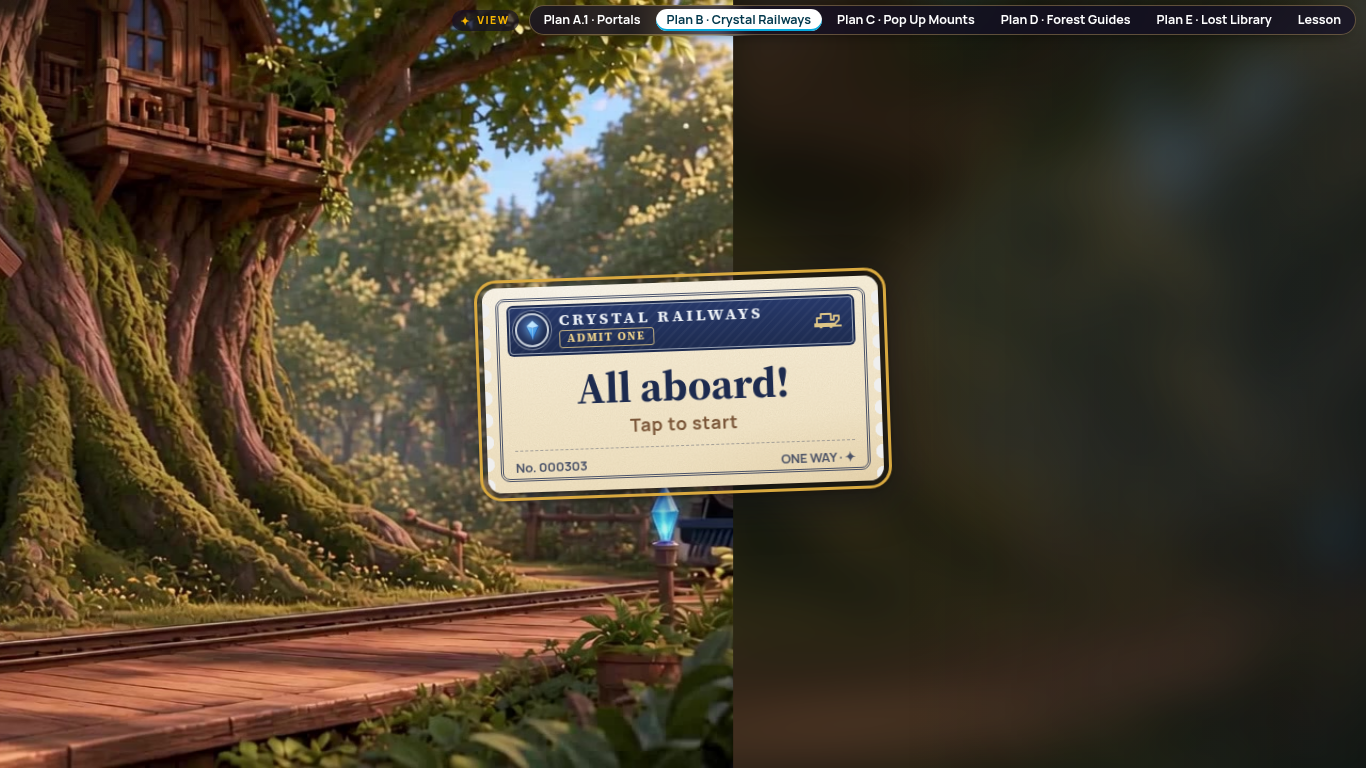
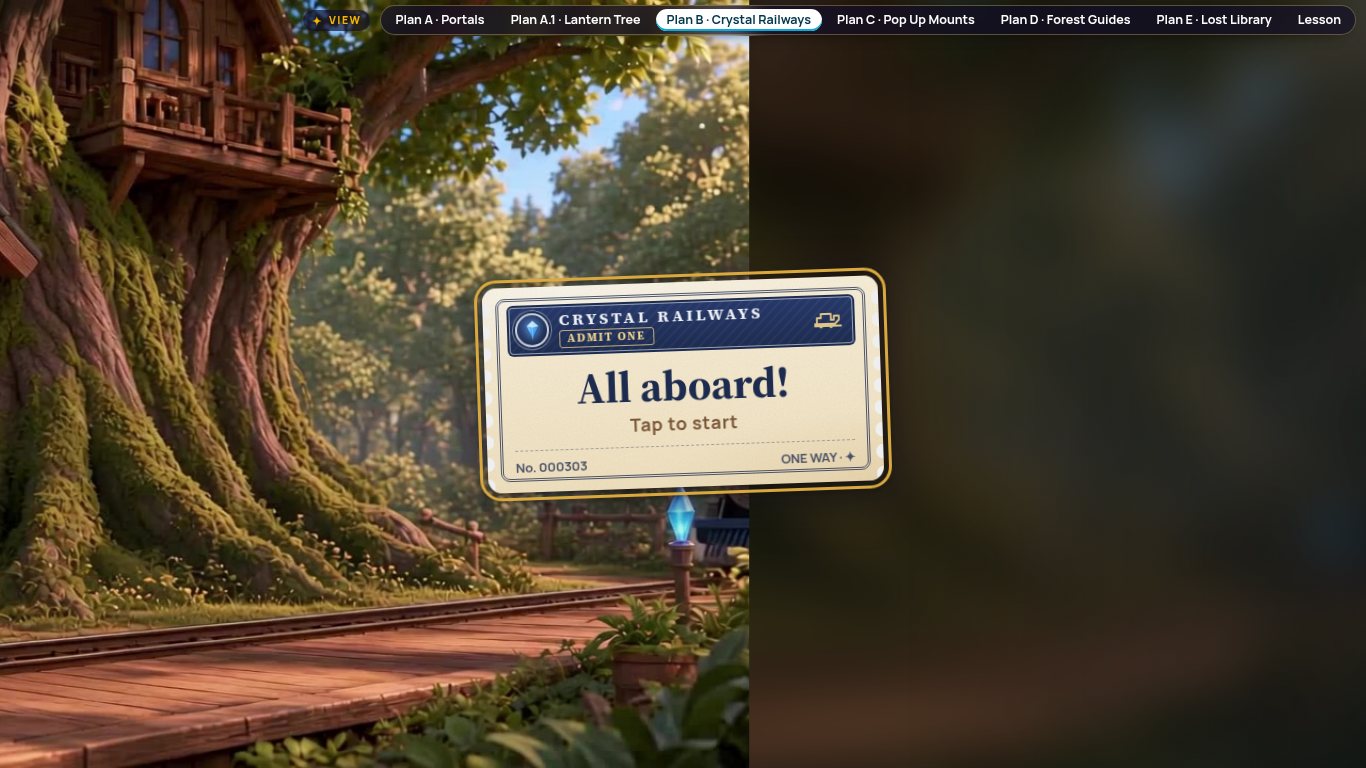
Restore original Plan A (switcher + site root); Plan A.1 Lantern Tree as separate button; goal tile at bottom; lantern menu as single bottom row

Changed region(s): [[0.0, 0.0, 0.5534, 1.0]]

diff --git a/public/dashboard-a1/common.css b/public/dashboard-a1/common.css
@@ -10,16 +10,20 @@
   transition:box-shadow .25s, background .25s; }
 .lantern:hover, .lantern:focus-visible { background:radial-gradient(closest-side, color-mix(in srgb,var(--c) 45%,transparent), transparent); box-shadow:0 0 34px 8px color-mix(in srgb,var(--c) 55%,transparent); outline:none; }
 .lantern.on { background:radial-gradient(closest-side, color-mix(in srgb,var(--c) 55%,transparent), transparent); box-shadow:0 0 0 3px var(--c), 0 0 44px 12px color-mix(in srgb,var(--c) 70%,transparent); }
-.bar { position:absolute; right:14px; bottom:12px; width:452px; padding:8px; display:none; flex-direction:column; gap:7px; border-radius:16px; box-sizing:border-box;
-  background:rgba(20,83,140,.5); -webkit-backdrop-filter:blur(10px); backdrop-filter:blur(10px); border:1px solid rgba(255,255,255,.22); }
+.bar { position:absolute; left:12px; right:12px; bottom:12px; padding:6px; display:none; align-items:center; gap:6px; border-radius:14px; box-sizing:border-box;
+  background:rgba(20,83,140,.45); -webkit-backdrop-filter:blur(10px); backdrop-filter:blur(10px); border:1px solid rgba(255,255,255,.22); }
+.goaltile { position:absolute; left:50%; bottom:14px; transform:translateX(-50%); height:34px; display:flex; align-items:center; padding:0 16px; border-radius:12px;
+  background:rgba(20,83,140,.38); -webkit-backdrop-filter:blur(6px); backdrop-filter:blur(6px); border:1px solid rgba(255,255,255,.22); font-size:14px; font-weight:600; white-space:nowrap; }
+.goaltile b { color:#f5b400; font-weight:800; letter-spacing:.08em; font-size:11px; margin-right:8px; text-transform:uppercase; }
+.sel .goaltile { display:none; }
 .bar.show { display:flex; }
-.tile { flex:0 0 calc(50% - 3px); box-sizing:border-box; height:26px; display:flex; align-items:center; gap:8px; padding:0 10px; border-radius:11px; border:2px solid var(--c); background:rgba(255,255,255,.12);
-  color:#fff; font:600 13px "Source Serif 4",serif; cursor:pointer; white-space:nowrap; overflow:hidden; }
+.tile { flex:1 1 0; min-width:0; box-sizing:border-box; height:30px; padding:0 8px !important; display:flex; align-items:center; gap:8px; padding:0 10px; border-radius:11px; border:2px solid var(--c); background:rgba(255,255,255,.12);
+  color:#fff; font:600 12px "Source Serif 4",serif; cursor:pointer; white-space:nowrap; overflow:hidden; }
 .tile em { font:800 11px Manrope,sans-serif; font-style:normal; }
 .tile.on { background:var(--c); color:#0b1d33; }
-.go { width:100%; height:32px; border:0; border-radius:999px; background:#f5b400; color:#14538c; font:800 17px Manrope,sans-serif; cursor:pointer; flex:none; }
+.go { width:104px; flex:none; height:30px; border:0; border-radius:999px; background:#f5b400; color:#14538c; font:800 17px Manrope,sans-serif; cursor:pointer; flex:none; }
 .go:hover { filter:brightness(1.08); }
-.soon { width:100%; height:32px; text-align:center; font:700 13px Manrope; color:#fff; line-height:1.2; }
+.soon { width:200px; flex:none; display:flex; align-items:center; justify-content:center; height:30px; text-align:center; font:700 13px Manrope; color:#fff; line-height:1.2; }
 .soon b { margin-right:6px; color:#f5b400; font-size:15px; }
 .back { position:absolute; left:16px; top:14px; height:38px; padding:0 16px; border-radius:999px; background:rgba(20,83,140,.75); color:#fff; text-decoration:none;
   display:flex; align-items:center; font:800 15px Manrope; border:1px solid rgba(255,255,255,.3); -webkit-backdrop-filter:blur(8px); backdrop-filter:blur(8px); }

diff --git a/public/dashboard-a1/index.html b/public/dashboard-a1/index.html
@@ -1,12 +1,13 @@
 <!doctype html><html lang="en"><head><meta charset="utf-8"/><meta name="viewport" content="width=device-width, initial-scale=1"/><link rel="icon" type="image/svg+xml" href="../favicon.svg"/>
 <link href="https://fonts.googleapis.com/css2?family=Manrope:wght@400;600;700;800&family=Source+Serif+4:opsz,wght@8..60,600;8..60,700&display=swap" rel="stylesheet"/>
-<link rel="stylesheet" href="../demo/switcher.css"/><link rel="stylesheet" href="stage-fit.css"/><link rel="stylesheet" href="common.css"/><title>Plan A.1 · Portals · Astra's Writing Adventure</title></head>
-<body><script src="../demo/switcher.js" data-page="dashboard-a"></script>
+<link rel="stylesheet" href="../demo/switcher.css"/><link rel="stylesheet" href="stage-fit.css"/><link rel="stylesheet" href="common.css"/><title>Plan A.1 · Lantern Tree · Astra's Writing Adventure</title></head>
+<body><script src="../demo/switcher.js" data-page="dashboard-a1"></script>
 <div id="frame" class="stage-frame">
 <img class="bg" src="tree.jpg" alt="Astra's lantern tree"/>
-<div class="strip"><h1>Astra's Writing Adventure</h1><div class="goal"><b>Today's goal</b>Back up every answer with evidence from the text.</div></div>
+<div class="strip"><h1>Astra's Writing Adventure</h1></div>
 <div id="lanterns"></div>
-<div class="bar" id="bar"><div id="tiles" style="display:flex;flex-wrap:wrap;gap:6px"></div><div id="act"></div></div>
+<div class="goaltile"><b>Today's goal</b>Back up every answer with evidence from the text.</div>
+<div class="bar" id="bar"><div id="tiles" style="display:flex;gap:6px;flex:1;min-width:0"></div><div id="act"></div></div>
 </div>
 <script src="stage-fit.js"></script><script src="worlds.js"></script>
 <script>
@@ -18,7 +19,7 @@
     var t=document.createElement("button"); t.className="tile"; t.style.setProperty("--c",w.color); t.innerHTML="<em>M"+w.m+"</em>"+w.name.replace(/'/g,"&#39;");
     t.onclick=function(){pick(i)}; tiles.appendChild(t);
   });
-  function pick(i){ sel=i; bar.classList.add("show");
+  function pick(i){ sel=i; bar.classList.add("show"); document.getElementById("frame").classList.add("sel");
     [].forEach.call(L.children,function(e,j){e.classList.toggle("on",j===i)}); [].forEach.call(tiles.children,function(e,j){e.classList.toggle("on",j===i)});
     var w=W[i]; act.innerHTML = w.art ? '<button class="go">Go ›</button>' : '<div class="soon"><b>Coming soon!</b>Astra is still exploring</div>';
     if(w.art) act.firstChild.onclick=function(){ location.href="world.html?w="+w.id; };

diff --git a/index.html b/index.html
@@ -4,11 +4,11 @@
     <meta charset="UTF-8" />
     <meta name="viewport" content="width=device-width, initial-scale=1.0" />
     <title>Astra’s Writing Adventure</title>
-    <!-- Site root opens Plan A of the Astra student dashboard (plans A–D live at ./dashboard-a1/ … ./dashboard-d/). The older "Welcome back, Alex" home lives at ./demo/ -->
-    <meta http-equiv="refresh" content="0; url=./dashboard-a1/" />
-    <script>location.replace("./dashboard-a1/" + location.search + location.hash);</script>
+    <!-- Site root opens Plan A of the Astra student dashboard (plans A–D live at ./dashboard-a/ … ./dashboard-d/). The older "Welcome back, Alex" home lives at ./demo/ -->
+    <meta http-equiv="refresh" content="0; url=./dashboard-a/" />
+    <script>location.replace("./dashboard-a/" + location.search + location.hash);</script>
   </head>
   <body>
-    <p><a href="./dashboard-a1/">Open Astra’s Writing Adventure</a></p>
+    <p><a href="./dashboard-a/">Open Astra’s Writing Adventure</a></p>
   </body>
 </html>

diff --git a/public/dashboard-a1/world.html b/public/dashboard-a1/world.html
@@ -1,7 +1,7 @@
 <!doctype html><html lang="en"><head><meta charset="utf-8"/><meta name="viewport" content="width=device-width, initial-scale=1"/><link rel="icon" type="image/svg+xml" href="../favicon.svg"/>
 <link href="https://fonts.googleapis.com/css2?family=Manrope:wght@400;600;700;800&family=Source+Serif+4:opsz,wght@8..60,600;8..60,700&display=swap" rel="stylesheet"/>
 <link rel="stylesheet" href="../demo/switcher.css"/><link rel="stylesheet" href="stage-fit.css"/><link rel="stylesheet" href="common.css"/><title>Plan A.1 · World · Astra's Writing Adventure</title></head>
-<body><script src="../demo/switcher.js" data-page="dashboard-a"></script>
+<body><script src="../demo/switcher.js" data-page="dashboard-a1"></script>
 <div id="frame" class="stage-frame"></div>
 <script src="stage-fit.js"></script><script src="worlds.js"></script>
 <script>

diff --git a/public/demo/switcher.js b/public/demo/switcher.js
@@ -7,7 +7,8 @@
   var page = (me && me.dataset.page) || "dashboard-a";
   var base = new URL("./", (me && me.src) || location.href); // .../demo/
   var links = [
-    { id: "dashboard-a", label: "Plan A.1 · Portals", href: new URL("../dashboard-a1/", base).href },
+    { id: "dashboard-a", label: "Plan A · Portals", href: new URL("../dashboard-a/", base).href },
+    { id: "dashboard-a1", label: "Plan A.1 · Lantern Tree", href: new URL("../dashboard-a1/", base).href },
     { id: "dashboard-b", label: "Plan B · Crystal Railways", href: new URL("../dashboard-b/", base).href },
     { id: "dashboard-c", label: "Plan C · Pop Up Mounts", href: new URL("../dashboard-c/", base).href },
     { id: "dashboard-d", label: "Plan D · Forest Guides", href: new URL("../dashboard-d/", base).href },

diff --git a/public/dashboard-a1/worlds.js b/public/dashboard-a1/worlds.js
@@ -7,5 +7,5 @@ window.A1_WORLDS = [
     crystals: [[240, 547], [507, 394], [309, 287], [860, 327]] },
   { id: "bayou-market",      m: 4, name: "Bayou Market",             color: "#ff8a3d", x: 1101, y: 192, w: 92, h: 150 },
   { id: "lightning-mountain",m: 5, name: "Lightning Mountain",       color: "#f5b400", x: 964,  y: 300, w: 86, h: 140 },
-  { id: "rainforest-canopy", m: 6, name: "Rainforest Canopy Bridges", color: "#ff5fa8", x: 1201, y: 300, w: 86, h: 140 }
+  { id: "rainforest-canopy", m: 6, name: "Rainforest Canopy Bridges", short: "Canopy Bridges", color: "#ff5fa8", x: 1201, y: 300, w: 86, h: 140 }
 ];
